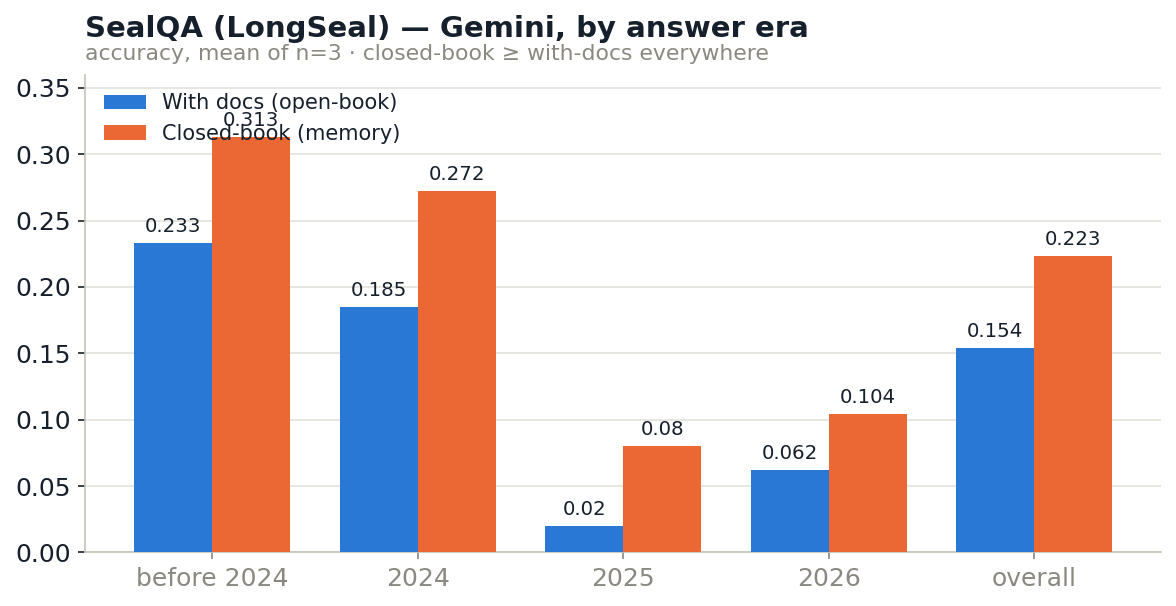
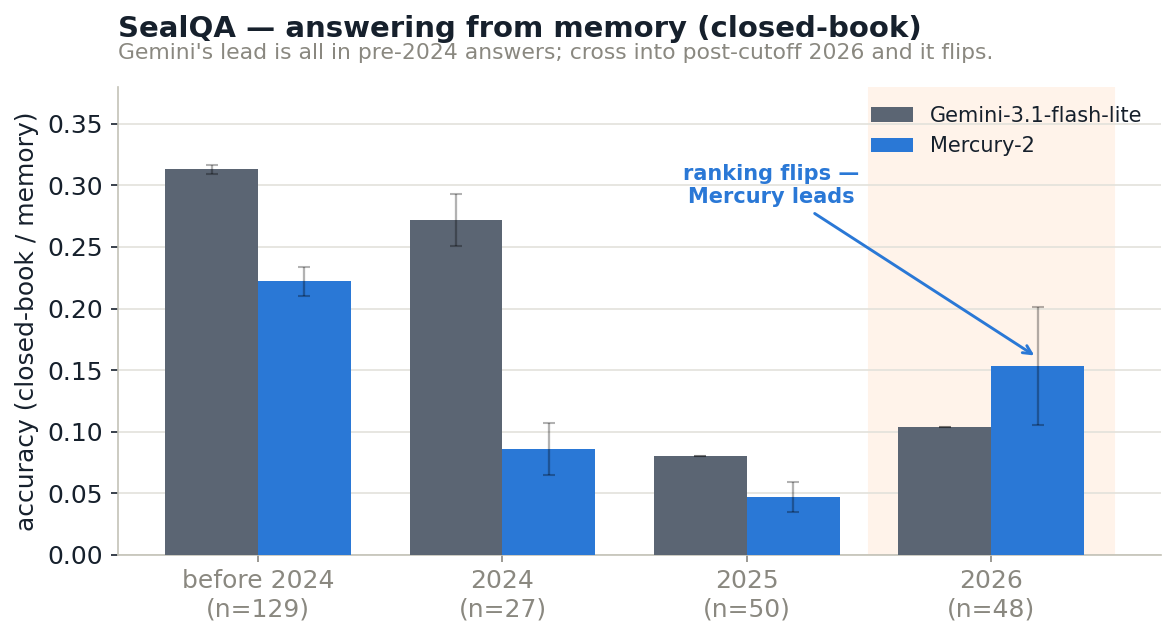
Reframe SealQA chart as Gemini-vs-Mercury by era (memorization flip)
Closed-book (memory) accuracy per answer era: Gemini's lead is confined to
pre-cutoff eras; on post-cutoff 2026 the ranking flips to Mercury. Error bars +
n shown; 2026 highlighted.

diff --git a/plot.py b/plot.py
@@ -110,14 +110,40 @@ def fig_contamination():
 
 
 def fig_sealqa():
-    fig, ax = plt.subplots(figsize=(8, 4.2), dpi=150)
-    _grouped(ax,
-             ["before 2024", "2024", "2025", "2026", "overall"],
-             [("With docs (open-book)", [0.233, 0.185, 0.020, 0.062, 0.154], SEARCH),
-              ("Closed-book (memory)", [0.313, 0.272, 0.080, 0.104, 0.223], MEMORY)],
-             "SealQA (LongSeal) — Gemini, by answer era",
-             "accuracy, mean of n=3 · closed-book ≥ with-docs everywhere",
-             ymax=0.36)
+    """Gemini vs Mercury answering from memory (closed-book), by answer era.
+    Gemini's lead is all in pre-cutoff eras; on 2026 the ranking flips."""
+    eras = ["before 2024", "2024", "2025", "2026"]
+    nq = [129, 27, 50, 48]
+    gem = [0.313, 0.272, 0.080, 0.104]
+    gem_sd = [0.004, 0.021, 0.000, 0.000]
+    m2 = [0.222, 0.086, 0.047, 0.153]
+    m2_sd = [0.012, 0.021, 0.012, 0.048]
+    GEM_C = "#5b6573"   # slate (incumbent)
+    M2_C = SEARCH       # blue (ours)
+    fig, ax = plt.subplots(figsize=(8, 4.4), dpi=150)
+    x = list(range(4))
+    w = 0.38
+    ax.axvspan(2.5, 3.5, color="#fff3ea", zorder=0)  # highlight 2026
+    ekw = dict(ecolor="#0000004d", lw=1.1, capsize=3)
+    ax.bar([i - w / 2 for i in x], gem, w, yerr=gem_sd, error_kw=ekw,
+           label="Gemini-3.1-flash-lite", color=GEM_C, zorder=3)
+    ax.bar([i + w / 2 for i in x], m2, w, yerr=m2_sd, error_kw=ekw,
+           label="Mercury-2", color=M2_C, zorder=3)
+    ax.set_xticks(x)
+    ax.set_xticklabels([f"{e}\n(n={n})" for e, n in zip(eras, nq)])
+    ax.set_ylim(0, 0.38)
+    ax.set_ylabel("accuracy (closed-book / memory)")
+    ax.yaxis.grid(True, color=GRID, lw=0.8, zorder=0)
+    ax.set_axisbelow(True)
+    _clean(ax)
+    ax.annotate("ranking flips —\nMercury leads", xy=(3.19, 0.16), xytext=(2.1, 0.30),
+                fontsize=10, color=M2_C, fontweight="bold", ha="center", va="center",
+                arrowprops=dict(arrowstyle="->", color=M2_C, lw=1.4))
+    ax.legend(frameon=False, loc="upper right", fontsize=10)
+    ax.set_title("SealQA — answering from memory (closed-book)",
+                 fontsize=14, fontweight="bold", loc="left", pad=24)
+    ax.text(0, 1.06, "Gemini's lead is all in pre-2024 answers; cross into post-cutoff 2026 and it flips.",
+            transform=ax.transAxes, fontsize=10.5, color=MUTED)
     fig.tight_layout()
     fig.savefig(f"{FIG}/sealqa_temporal.png", bbox_inches="tight")
     plt.close(fig)

diff --git a/README.md b/README.md
@@ -53,10 +53,11 @@ on fresh data closed-book collapses to zero and search carries the whole score:
 
 ## It's not just WideSearch — SealQA
 
-On SealQA (LongSeal; contamination-resistant, refreshed ~monthly), Gemini scores
-*higher* from memory than from the retrieved documents, and the gap is widest on
-older facts — the same memorization signature. (SealQA's docs are adversarially
-noisy by design, so treat this as a replication of the pattern, not the clean proof.)
+Same signature on SealQA (LongSeal; contamination-resistant, refreshed ~monthly).
+Answering from memory, Gemini's lead lives entirely in **pre-2024** questions — the
+ones old enough to be in its weights. Cross into post-cutoff **2026** and the ranking
+flips: Mercury leads. Same context for both models; the only thing that changed is
+whether memory could answer. (2026 is n=48 — an edge, not a blowout.)
 
 ![SealQA by answer era](figures/sealqa_temporal.png)
 